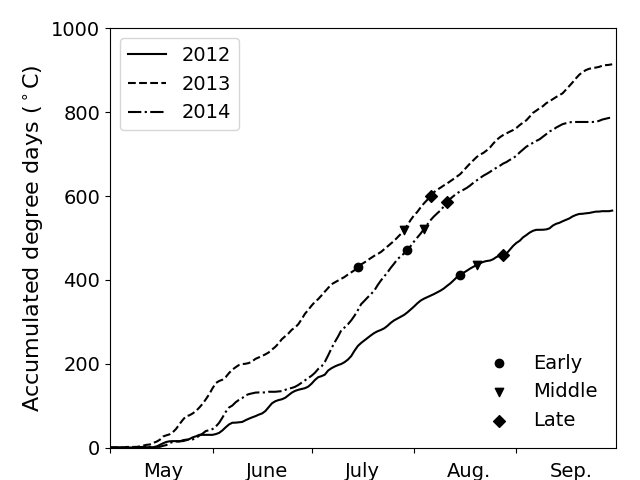
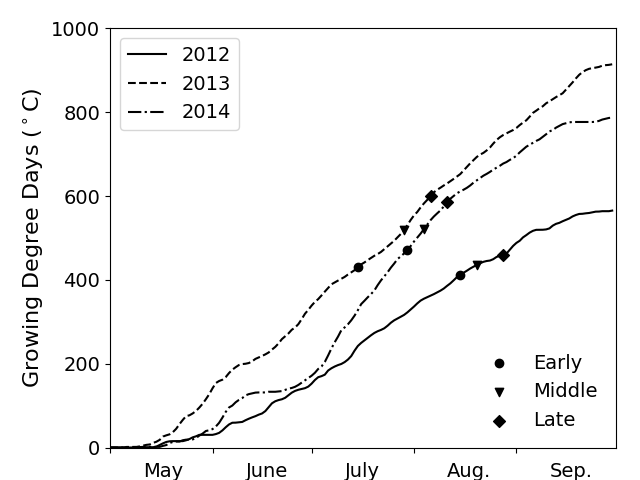
endret y-akse-tekst

Changed region(s): [[0.0312, 0.125, 0.0625, 0.875]]

diff --git a/plot.py b/plot.py
@@ -84,7 +84,7 @@ if sys.argv[1] == "data.txt":
 
     first_legend = plt.legend(handles=[punkt1, punkt2, punkt3], loc=4, frameon=False)
     plt.gca().add_artist(first_legend)
-    plt.ylabel("Accumulated degree days ($^\circ$C)")
+    plt.ylabel("Growing Degree Days ($^\circ$C)")
     #plt.xlabel("Dato")
     plt.ylim(0,1000)
     location = 2
